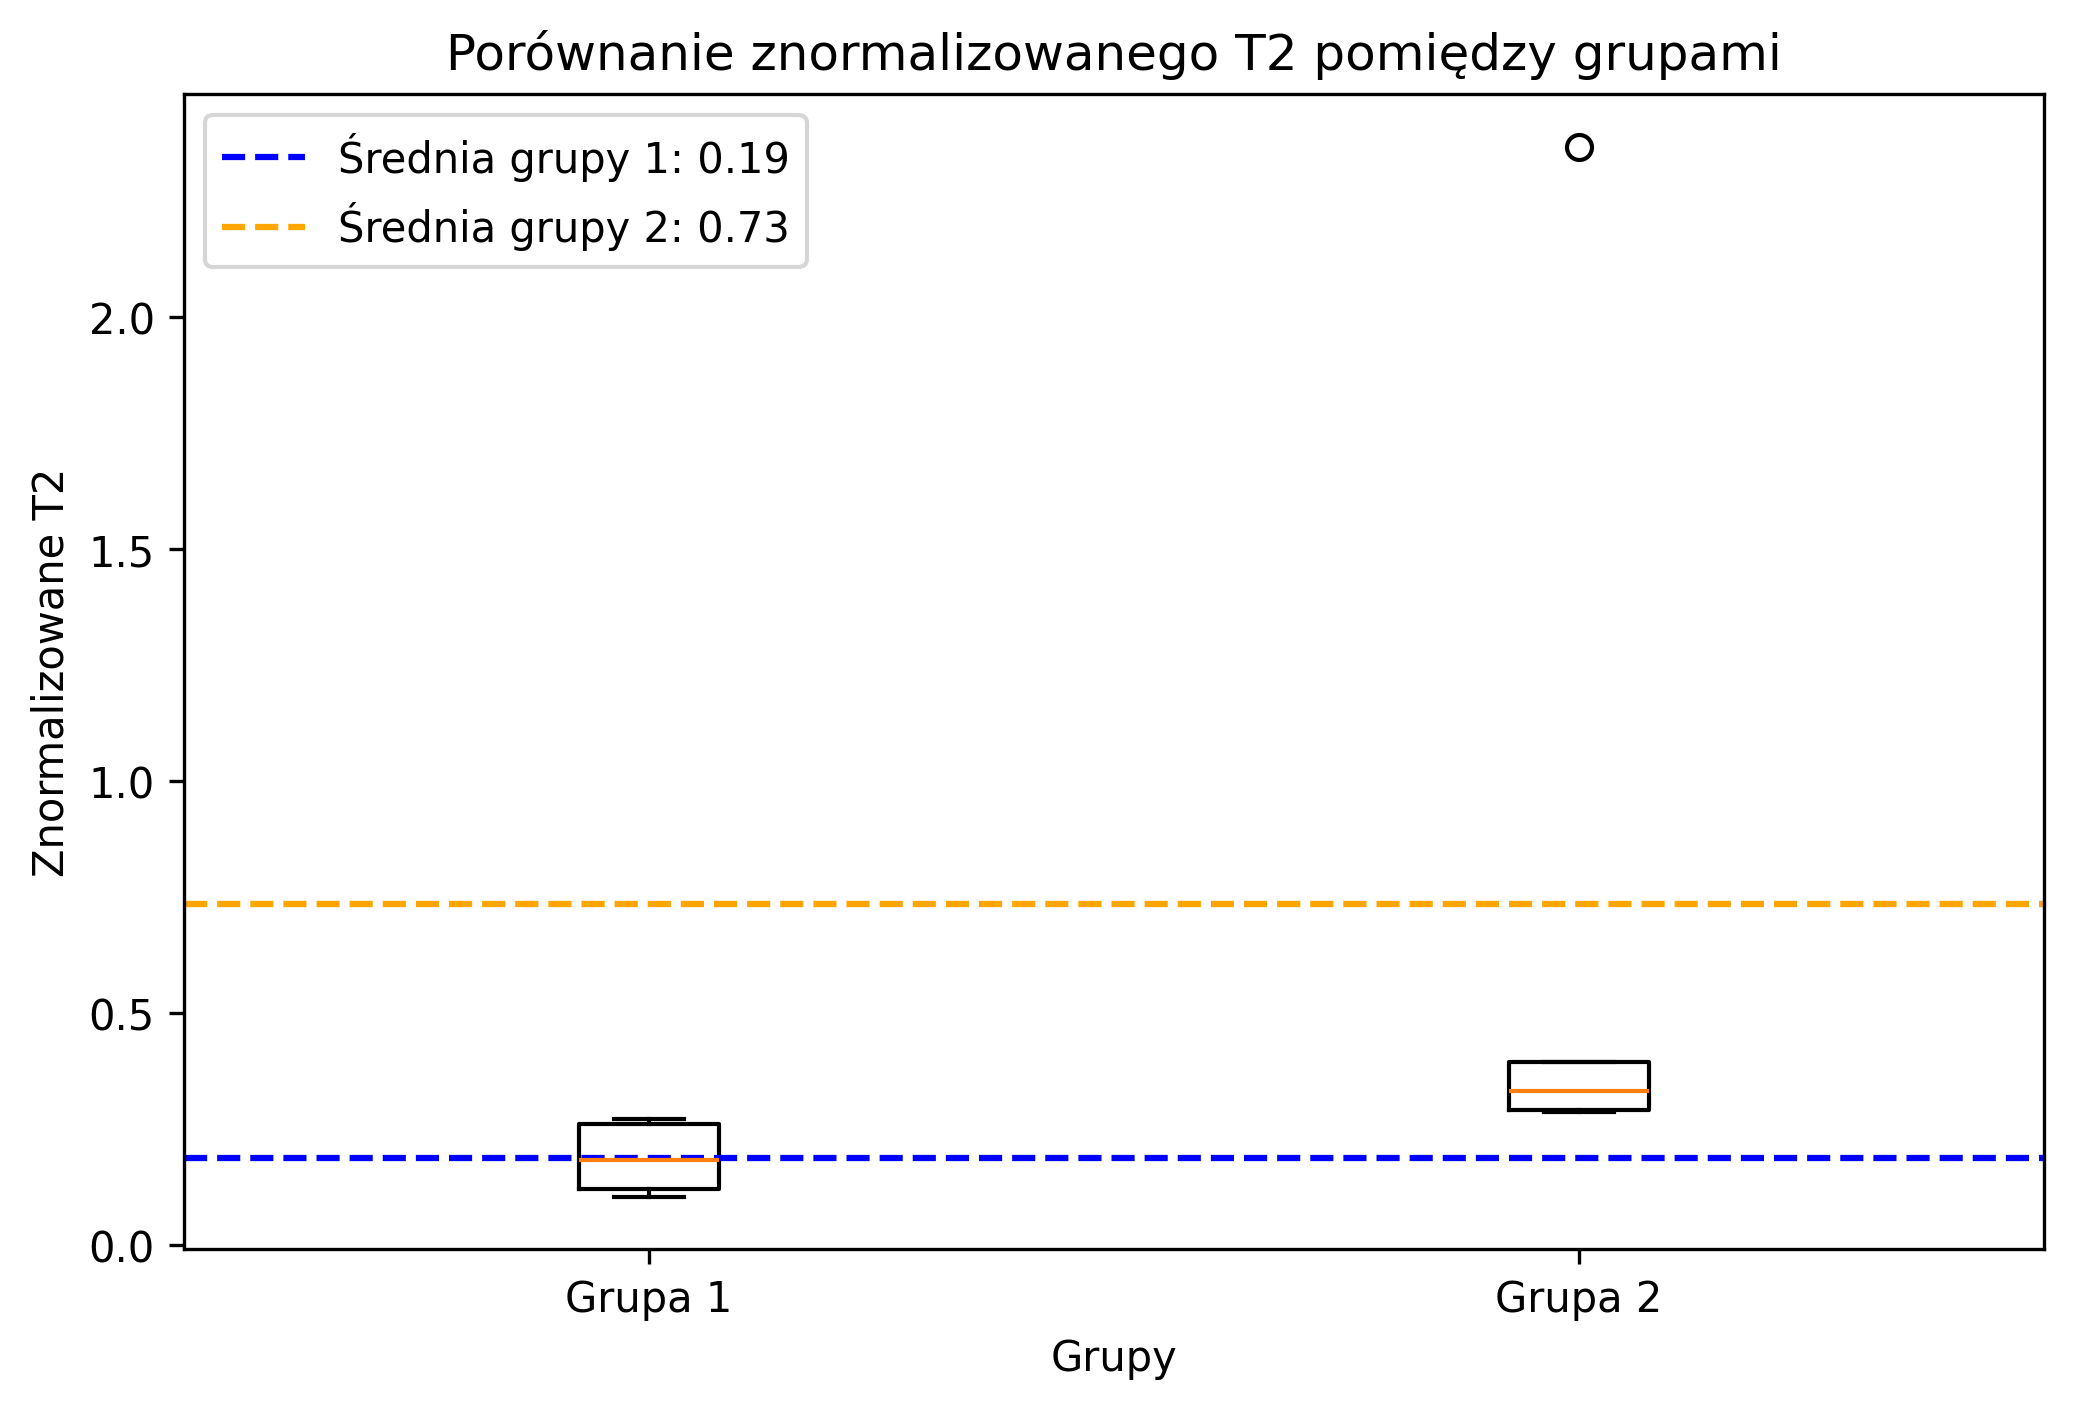
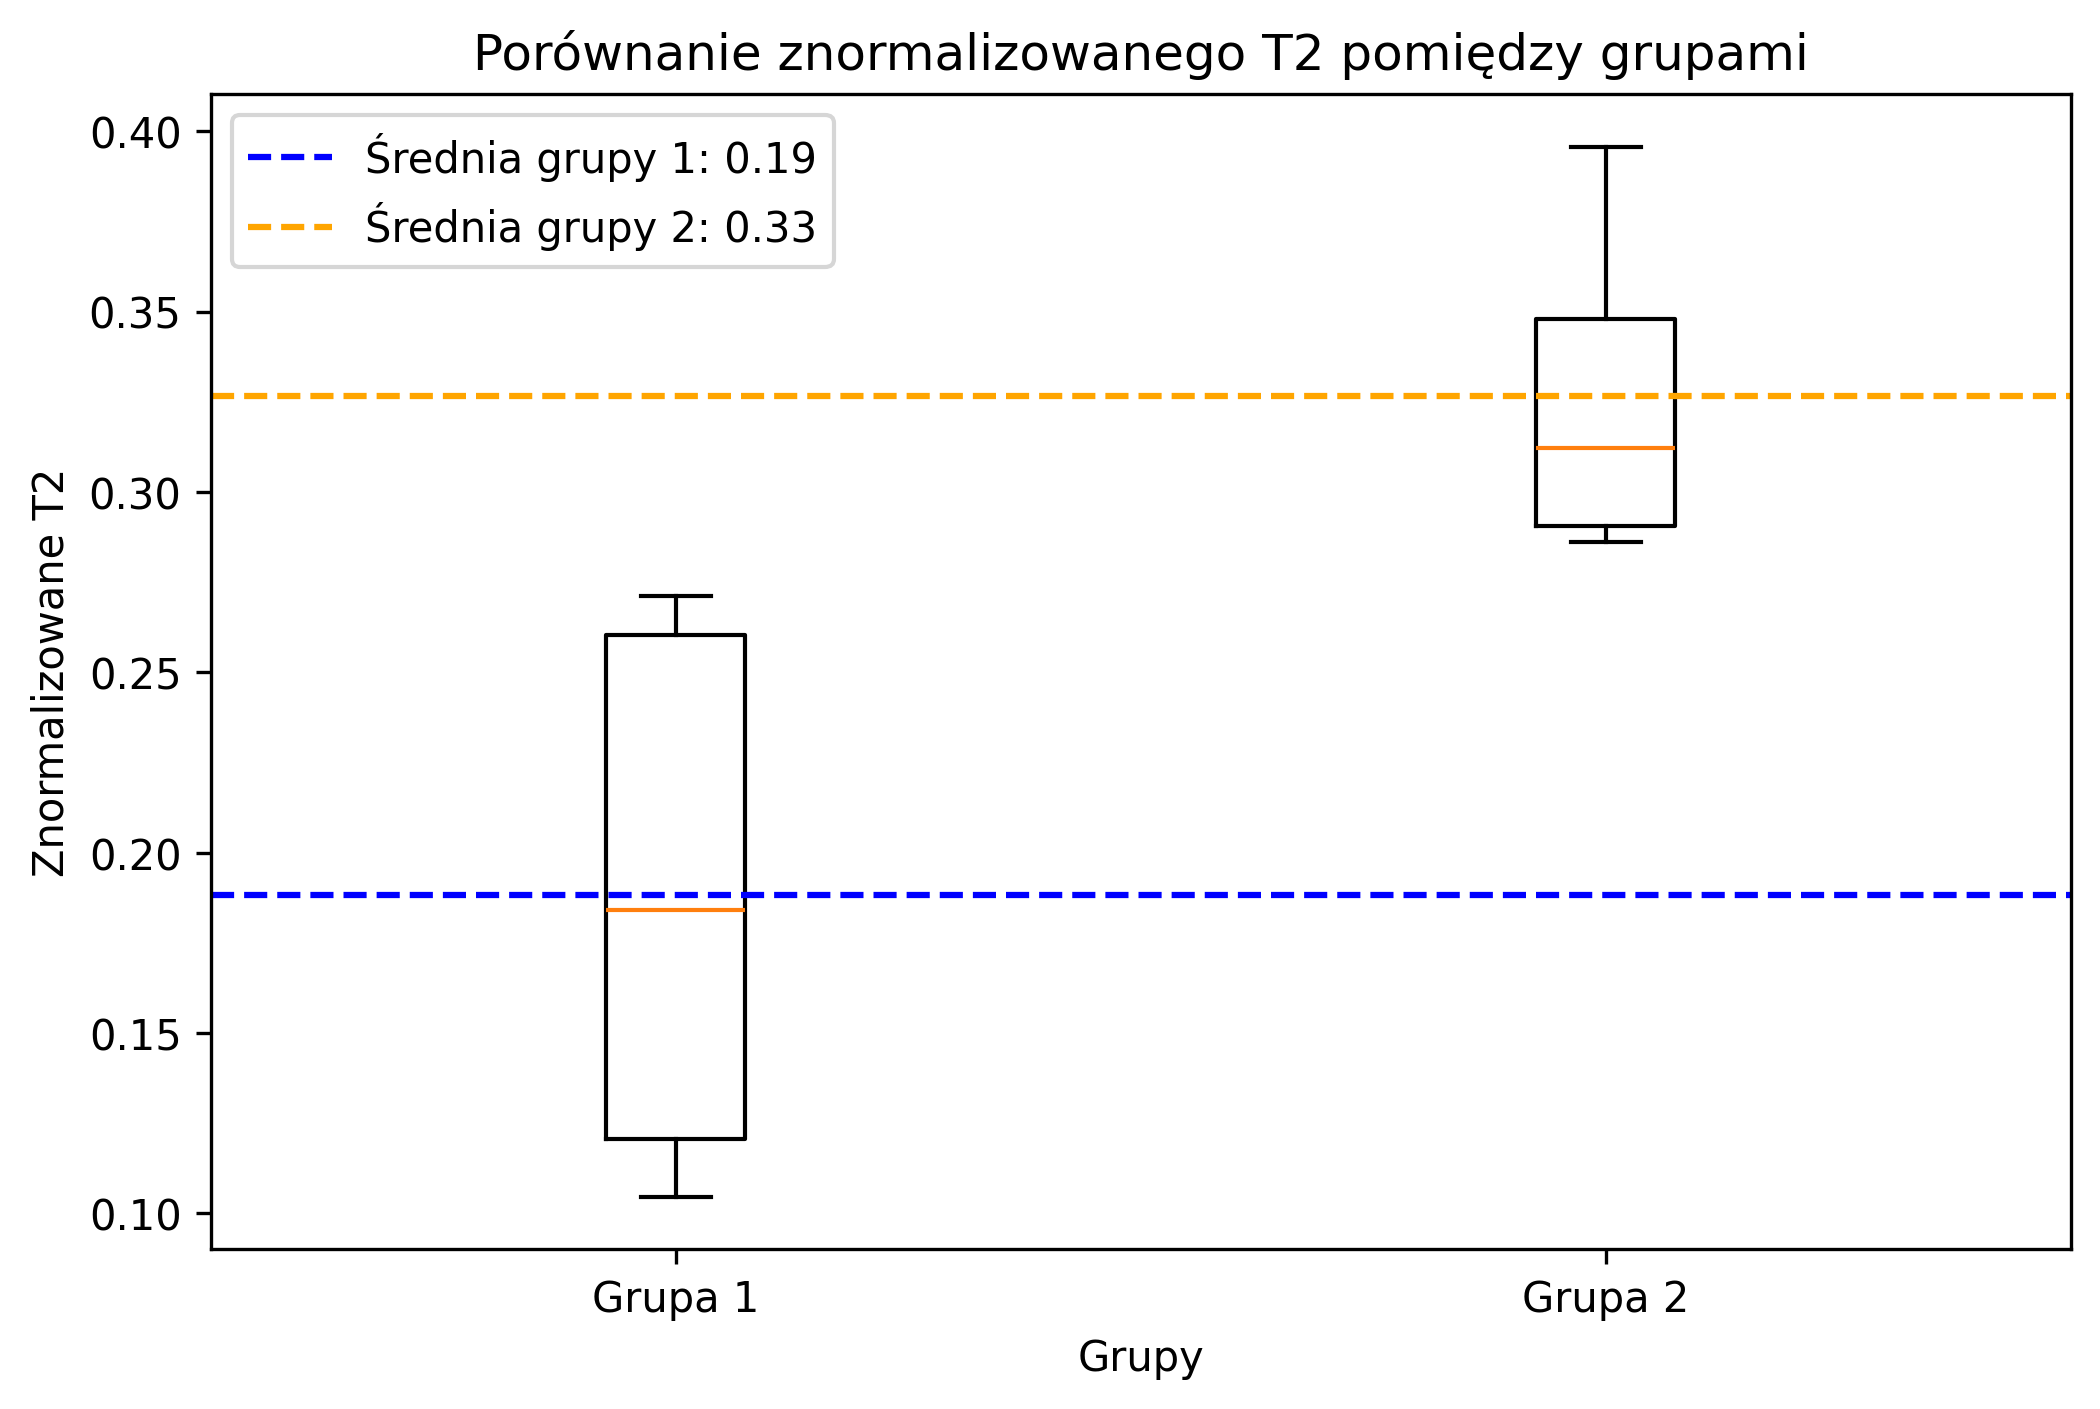
Update results

diff --git a/tekst/rozdzialy/wyniki.tex b/tekst/rozdzialy/wyniki.tex
@@ -35,30 +35,39 @@ szczegółowo opisana w podrozdziale~\ref{subsec:zmienne}.
 \begin{table}[h]
     \centering
     \begin{tabular}{l|l|l|l|l|l}
-        Grupa              & Badany \(i\)  & Doświadczenie Java [lata] & Technologia & Wykształcenie & Dziedzina
+        Grupa & Badany \(i\) & Doświadczenie Java [lata] & Technologia & Wykształcenie & Dziedzina
         \\ \hline\hline
-        \multirow{5}{*}{1} & \underline{1} & 2                         & Spring      & mgr           & Bankowość
+        \multirow{5}{*}{1} & \underline{1} & 2 & Spring & mgr & Bankowość
         \\
-        & \underline{2} & 3                         & Spring      & mgr           & Linie lotnicze      \\
-        & 3             & 7                         & Spring      & mgr           & Bankowość           \\
-        & \underline{4} & 20                        & Spring      & mgr           & Bankowość           \\
-        & 5             & 9                         & EJB         & kurs          & Handel              \\ \hline
-        \multirow{5}{*}{2} & \underline{6} & 5                         & Spring      & mgr           & Bankowość
+        & \underline{2} & 3  & Spring & mgr       & Linie lotnicze      \\
+        & 3             & 7  & Spring & mgr       & Bankowość           \\
+        & \underline{4} & 20 & Spring & mgr       & Bankowość           \\
+        & 5             & 9  & EJB    & kurs      & Handel              \\ \hline
+        \multirow{5}{*}{2} & \underline{6} & 5 & Spring & mgr & Bankowość
         \\
-        & 7             & 20                        & Spring      & mgr           & Bankowość           \\
-        & \underline{8} & 5                         & Spring      & kurs          & Bankowość           \\
-        & \underline{9} & 2                         & Go          & technikum     & Transport/Produkcja \\
-        & 10            & 3                         & Spring      & mgr           & Biofarmaceutyka     \\ \hline
+        & 7             & 20 & Spring & mgr       & Bankowość           \\
+        & \underline{8} & 5  & Spring & kurs      & Bankowość           \\
+        & \underline{9} & 2  & Go     & technikum & Transport/Produkcja \\
+        & 10            & 3  & Spring & mgr       & Biofarmaceutyka     \\ \hline
     \end{tabular}
     \caption{\label{tab:demografia}Doświadczenie, aktualnie używana technologia i dziedzina,
         którą zajmują się badani programiści}
 \end{table}
 
 Jako dodatkowa obserwacja, w 6 przypadkach (podkreślonych w tabeli~\ref{tab:czas_norm}) eksperyment trwał dłużej niż
-założone 45 minut.
+założone 45 minut, ale nie dużej niż godzinę.
 Świadczy to o niedoszacowanej estymacji trwania badania przez autora pracy --- czas badania powinien być ustalony na 60
 minut.
 
+\subsection{Odrzuczenie próbki}
+
+Uczestnik badania \(i = 10\) wykonał zadanie poprawnie, ale ---
+w przekonaniu prowadzącego eksperyment --- nie zrozumiał poprawnie zadania
+drugiego, wykonał implementację, która nie dotyczyła testu, a to spowodowało
+nieadekwatnie dłuższy czas.
+W tym rozumieniu uznaje się, że ten eksperyment zakończył się niepowodzeniem.
+Nie przewidziano takiego przypadku w zaprojektowaniu eksperymentu.
+Tą próbkę autor pracy zdecydował się odrzucić z dalszej analizy statystycznej.
 
 \section{Statystyczna analiza danych}
 
@@ -70,10 +79,6 @@ minut.
 
 Na Rysunku~\ref{fig:results_stats} przedstawiono wykres pudełkowy podsumowujący pozyskane próbki.
 W grupie drugiej uzyskano jedną obserwację odstającą o wartości 2,36.
-Badany 10 rozwiązał najszybciej ze wszystkich zadanie kontrolne, jednocześnie uzyskując przeciętny czas zadania
-drugiego.
-W tym przypadku miała miejsce sytuacja związana z dobrą znajomością zagadnienia zadania pierwszego (rozpoznanie typów
-bazowych) i mniejsza
 
 Średnie z uzyskanych próbek to odpowiednio \(0.19\) i \(0.75\).
 

diff --git a/EE-dyplom.tex b/EE-dyplom.tex
@@ -54,12 +54,12 @@
     Wśród praktyków programowania obiektowego powszechnym przekonaniem jest
     konieczność tworzenia klas o niskim sprzężeniu i wysokiej spójności.
     Pozytywnie wpływa to na czytelność, przyspieszając poprawne zrozumienie
-    zastanego kodu źródłowego, w konsekwencji optymalizując koszta
+    zastanego kodu źródłowego, a w konsekwencji optymalizując koszta
     poniesione podczas dostosowywania programu do zmieniających się wymagań.
 
     To z pozoru logiczne założenie nie zostało jednak empirycznie
     potwierdzone.
-    Niewielka ilość prac sugeruje istnienie takiego efektu, powołując się
+    Niewielka ilość prac stwierdza istnienie tej zależności, powołując się
     głównie na fakt częstego używania refaktoryzacji przez programistów w
     projektach otwartego źródła.
 
@@ -69,16 +69,15 @@
     W pracy przeprowadzono eksperyment, w którym programiści (\(n = 10\))
     Java wykonywali dwie z góry określone zmiany w istniejącym kodzie
     źródłowym.
-    Programiści zostali podzieleni na dwie grupy, w których programy różniły
-    się stopniem sprzężenia w obszarze poddawanemu zmianom.
+    Badani zostali podzieleni na dwie grupy, w których programy różniły
+    się stopniem sprzężenia w obszarze poddawanemu przez nich zmianom.
 
-    Wyniki sugerują różnice w średnim znormalizowanym czasie wykonania
-    pomiędzy programami, jednakże wyniki te nie są statystycznie istotne:
-    \(p = 0.25\), co sugeruje potrzebę większej grupy badawczej i zastosowanie
-    mniej kosztownych technik przeprowadzenia eksperymentu, taką jak
-    automatyzowane środowisko progrmaistyczne używane do przeprowadzania
-    zadań rekrutacyjnych w firmach technologicznych.
-
+    Wyniki eksperymentu sugerują różnice w średnim znormalizowanym czasie
+    wykonania pomiędzy programami, jednakże wyniki te nie są statystycznie
+    istotne: \(p = 0.25\), co sugeruje potrzebę większej grupy badawczej
+    i zastosowanie mniej kosztownych technik przeprowadzenia eksperymentu,
+    taką jak automatyzowane środowisko progrmaistyczne używane do
+    przeprowadzania zadań rekrutacyjnych w firmach technologicznych.
 
 } % koniec streszczenia
 

diff --git a/src/ttest.py b/src/ttest.py
@@ -1,16 +1,32 @@
 from scipy.stats import ttest_ind
 from scipy.stats import describe
+import numpy as np
 
 def normalize(arr):
     return (arr[1] / arr[0])
 
 group_1 = [[2027, 528], [1720, 180], [1106, 300], [2265, 273], [380, 70]]
-group_2 = [[2031, 581], [411, 120], [2017, 670], [1213, 480], [221, 523]]
+group_2 = [[2031, 581], [411, 120], [2017, 670], [1213, 480]]
 
 sample_1 = list(map(normalize, group_1))
 sample_2 = list(map(normalize, group_2))
 
 t_stat, p_value = ttest_ind(sample_1, sample_2, equal_var=False)
+
+median_1 = np.median(sample_1)
+median_2 = np.median(sample_2)
+
+basic_stats = [
+    lambda x: np.std(x),
+    lambda x: np.mean(x),
+    lambda x: np.median(x),
+    lambda x: np.percentile(x, 25),
+    lambda x: np.percentile(x, 50),
+    lambda x: np.percentile(x, 75)
+]
+
+results = [stat(sample_1) for stat in basic_stats]
+print(f'{results}')
 
 print(f"First group seconds normalized: {sample_1}")
 print(f"Second group seconds normalized: {sample_2}")

diff --git a/tekst/rozdzialy/wstep.tex b/tekst/rozdzialy/wstep.tex
@@ -1,0 +1,11 @@
+% Oprogramowanie wymaga zmian
+% Zmiany są coraz to bardziej kosztowne
+% Optymalizacja kosztów jest istotna
+Koszt wytworzenia oprogramowania nie stanowi jedynego
+
+% Literatura praktyków posiada zasadę "niskie sprzężenie, wysoka spójność"
+% Czy zatem sprzężenie klas ma wpływ na koszt zmiany oprogramowania?
+% Ktoś to musiał już zbadać, prawda?
+
+% Nie? To ja to zbadam.
+% Zawartość pracy tak bardzo ogólnie

diff --git a/src/ttest_plot.py b/src/ttest_plot.py
@@ -7,7 +7,7 @@ def normalize(arr):
 
 # Data for the two groups
 group_1 = [[2027, 528], [1720, 180], [1106, 300], [2265, 273], [380, 70]]
-group_2 = [[2031, 581], [411, 120], [2017, 670], [1213, 480], [221, 523]]
+group_2 = [[2031, 581], [411, 120], [2017, 670], [1213, 480]]
 
 # Apply normalization
 sample_1 = list(map(normalize, group_1))

diff --git a/tekst/main.tex b/tekst/main.tex
@@ -1,4 +1,6 @@
-\chapter{Wstęp}
+\chapter{Wstęp}\label{cha:wstep}
+
+\include{tekst/rozdzialy/wstep}
 
 \chapter{Stopień sprzężenia klas}\label{cha:coupling}
 
